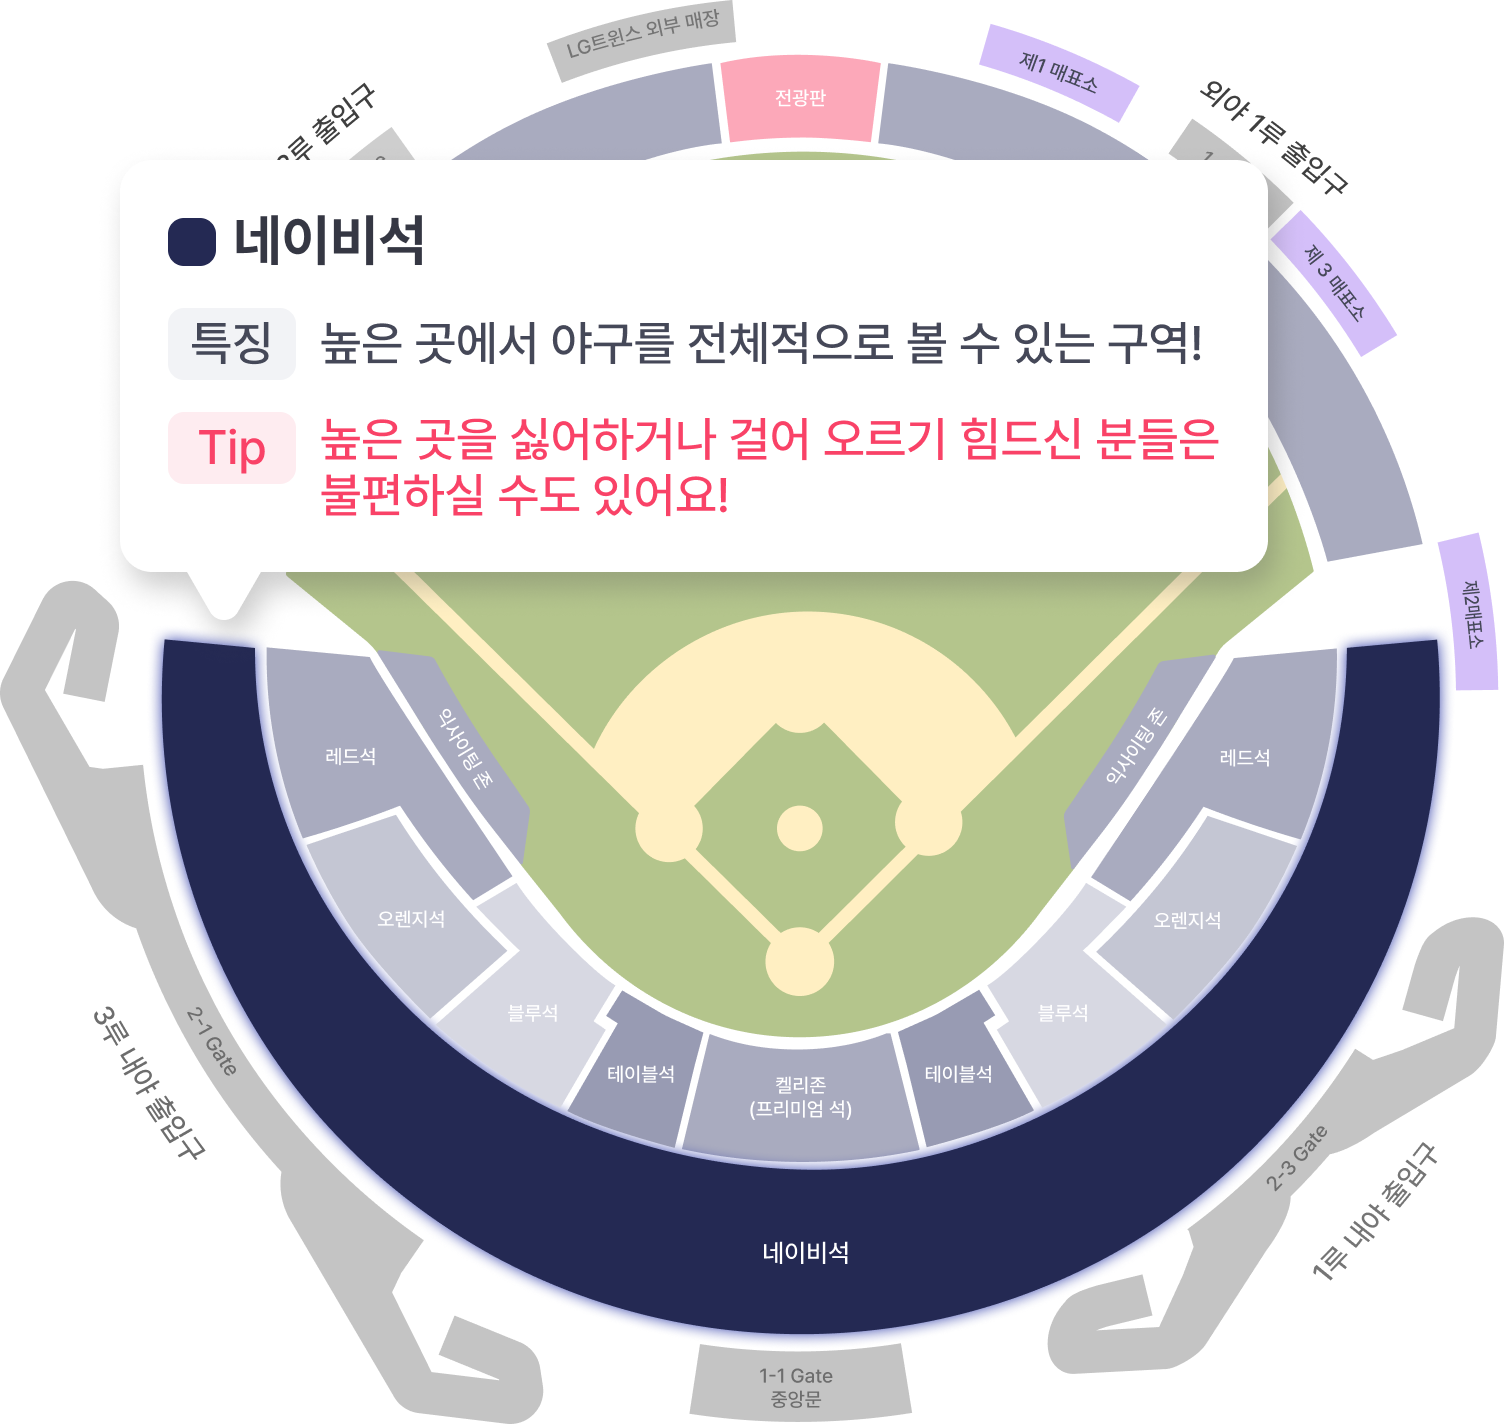
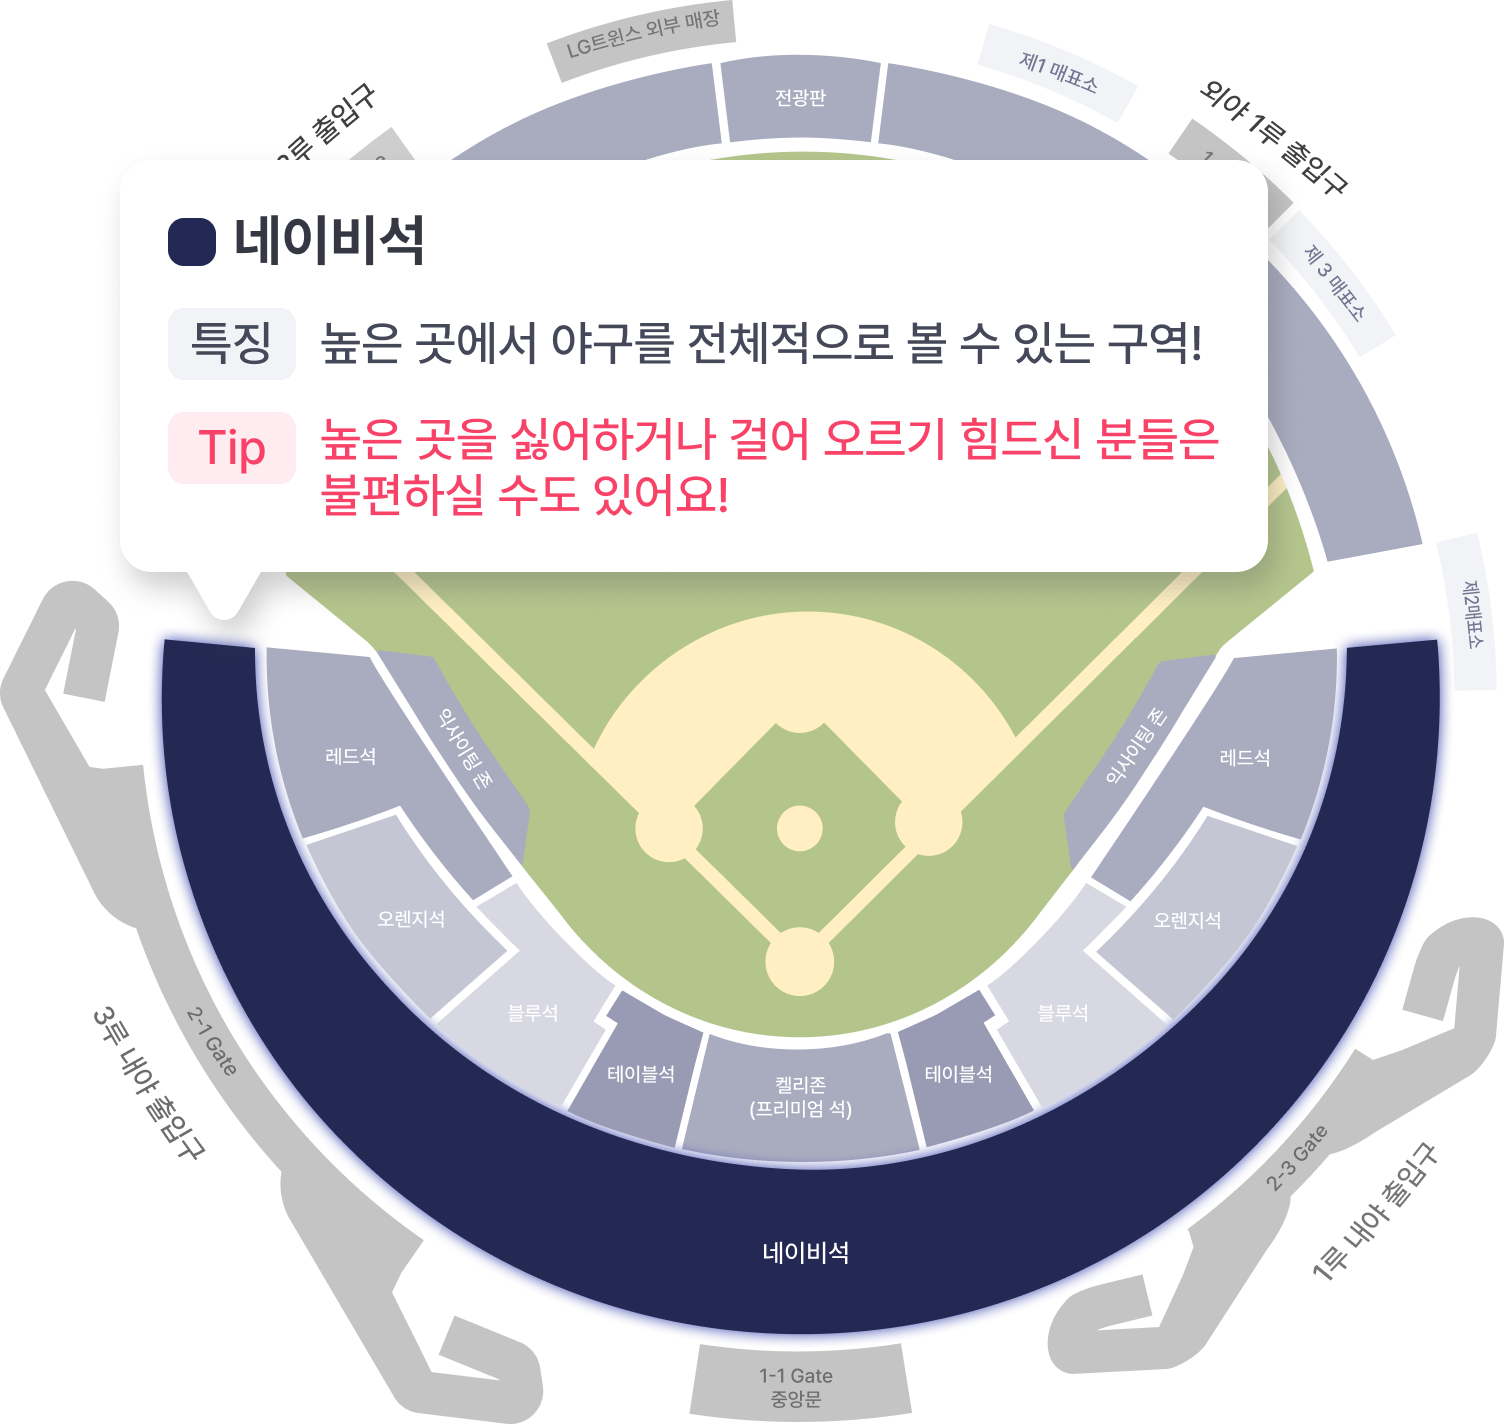
(#48) 🎨 design: 잠실종합운동장 이미지 수정 및 익사이팅존 색상값 수정

diff --git a/src/pages/Main/components/JamsilSeat.tsx b/src/pages/Main/components/JamsilSeat.tsx
@@ -17,14 +17,14 @@ import { getImageDimensions } from "@/src/constants/ReactionData"
 
 // 각 색상별 이미지와 오차값 포함
 const colorMap: { [key: string]: { image: StaticImageData; tolerance: number } } = {
-  "#DC032A": { image: redStadium, tolerance: 15 },      // 빨강 좌석: tolerance 30
-  "#E16900": { image: orangeStadium, tolerance: 35 },   // 주황 좌석: tolerance 35
-  "#242953": { image: navyStadium, tolerance: 20 },     // 남색 좌석: tolerance 20
-  "#4699F2": { image: blueStadium, tolerance: 25 },     // 파랑 좌석: tolerance 25
-  "#7C0065": { image: tableStadium, tolerance: 20 },    // 보라색 좌석: tolerance 20
-  "#185DDD": { image: premiumStadium, tolerance: 25 },  // 프리미엄 블루 좌석: tolerance 25
-  "#339600": { image: greenStadium, tolerance: 35 },    // 녹색 좌석: tolerance 35
-  "#6D6D6D": { image: excitingStadium, tolerance: 15 }, // 회색 좌석: tolerance 15
+  "#DC032A": { image: redStadium, tolerance: 15 },      // 빨강 좌석
+  "#E16900": { image: orangeStadium, tolerance: 35 },   // 주황 좌석
+  "#242953": { image: navyStadium, tolerance: 20 },     // 남색 좌석
+  "#4699F2": { image: blueStadium, tolerance: 25 },     // 파랑 좌석
+  "#7C0065": { image: tableStadium, tolerance: 20 },    // 보라색 좌석
+  "#185DDD": { image: premiumStadium, tolerance: 25 },  // 프리미엄 블루 좌석
+  "#339600": { image: greenStadium, tolerance: 35 },    // 녹색 좌석
+  "#FFE23E": { image: excitingStadium, tolerance: 15 }, // 회색 좌석
 };
 
 // HEX 색상을 RGB로 변환하는 함수
